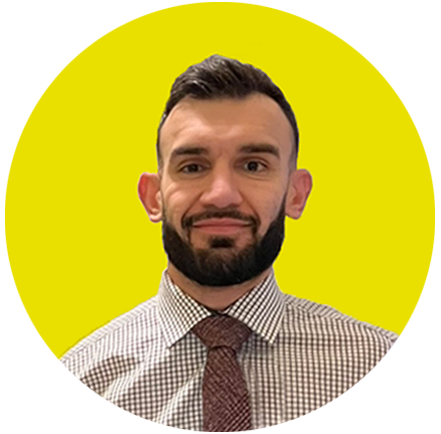
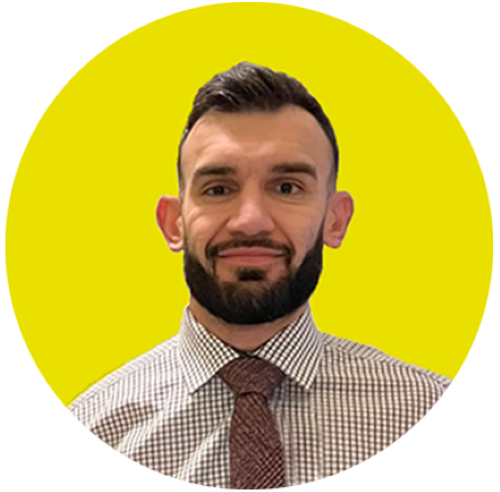
reszied some text and photos

diff --git a/data/projectsData.js b/data/projectsData.js
@@ -119,18 +119,18 @@ export const projectsData = [
 		ProjectImages: [
 			{
 				id: uuidv4(),
-				title: 'Phoenix Digital Agency',
-				img: '/images/ui-project-1.jpg',
+				title: 'Defi-City',
+				img: '/images/deficity.png',
 			},
 			{
 				id: uuidv4(),
-				title: 'Phoenix Digital Agency',
-				img: '/images/web-project-2.jpg',
+				title: 'Defi-City',
+				img: '/images/deficity.png',
 			},
 			{
 				id: uuidv4(),
-				title: 'Phoenix Digital Agency',
-				img: '/images/mobile-project-2.jpg',
+				title: 'Defi-City',
+				img: '/images/deficity.png',
 			},
 		],
 		ProjectInfo: {
@@ -177,16 +177,6 @@ export const projectsData = [
 					id: uuidv4(),
 					details:
 						'Lorem ipsum dolor, sit amet consectetur adipisicing elit. Nihil vel illum asperiores dignissimos cumque quibusdam et fugiat voluptatem nobis suscipit explicabo, eaque consequatur nesciunt, fugit eligendi corporis laudantium adipisci soluta?',
-				},
-				{
-					id: uuidv4(),
-					details:
-						'Lorem ipsum dolor, sit amet consectetur adipisicing elit. Nihil vel illum asperiores dignissimos cumque quibusdam et fugiat voluptatem nobis suscipit explicabo, eaque consequatur nesciunt, fugit eligendi corporis laudantium adipisci soluta?',
-				},
-				{
-					id: uuidv4(),
-					details:
-						'Lorem ipsum dolor, sit amet consectetur adipisicing elit. Nihil vel illum asperiores dignissimos cumque quibusdam et fugiat voluptatem nobis suscipit explicabo, eaque consequatur nesciunt, fugit eligendi corporis laudantium adipisci soluta? Lorem ipsum, dolor sit amet consectetur adipisicing elit. Incidunt totam dolorum, ducimus obcaecati, voluptas facilis molestias nobis ut quam natus similique inventore excepturi optio ipsa deleniti fugit illo. Unde, amet! Lorem ipsum dolor sit amet, consectetur adipisicing elit. Ipsum illo necessitatibus perspiciatis! Aperiam perferendis labore temporibus, eos culpa corporis recusandae quas, fuga voluptatibus nesciunt odit libero tenetur neque consequatur ea.',
 				},
 			],
 

diff --git a/data/aboutMeData.js b/data/aboutMeData.js
@@ -7,7 +7,7 @@ export const aboutMeData = [
 	},
 	{
 		id: uuidv4(),
-		bio: `When I'm not coding, you'll find me exploring the world of mixed martial arts, and other competitive sports.My favorite thing above all is enjoying all of life's gifs and pleasures alongside my amazing family and our adorable, and typically well - behaved pets. (🐶 x3 &  🐱)`,
+		bio: `When I'm not coding, you'll find me exploring the world of mixed martial arts, and other competitive sports. My favorite thing above all is enjoying all of life's gifs and pleasures alongside my amazing family and our adorable, and typically well - behaved pets. (🐶 x3 &  🐱)`,
 	},
 	{
 		id: uuidv4(),

diff --git a/components/shared/AppFooter.jsx b/components/shared/AppFooter.jsx
@@ -21,7 +21,7 @@ function AppFooter() {
 			<div className='pt-20 sm:pt-30 pb-8 mt-20 border-t-2 border-primary-light dark:border-secondary-dark'>
 				{/* Footer social links */}
 				<div className='font-general-regular flex flex-col justify-center items-center mb-12 sm:mb-28'>
-					<p className='text-3xl sm:text-5xl text-primary-dark dark:text-primary-light mb-5'>Follow me</p>
+					<p className='text-3xl sm:text-4xl text-primary-dark dark:text-primary-light mb-5'>Follow me</p>
 					<ul className='flex gap-4 sm:gap-8'>
 						{socialLinks.map(link => (
 							<a

diff --git a/components/about/AboutMeBio.jsx b/components/about/AboutMeBio.jsx
@@ -6,7 +6,7 @@ function AboutMeBio() {
 	const [aboutMe, setAboutMe] = useState(aboutMeData);
 	return (
 		<div className="block sm:flex sm:gap-10 mt-10 sm:mt-20">
-			<div className="w-full sm:w-2/5 mb-7 sm:mb-0">
+			<div className="w-full sm:w-1/4 mb-7 sm:mb-0">
 				<Image
 					src="/images/profile.png"
 					width={400}
